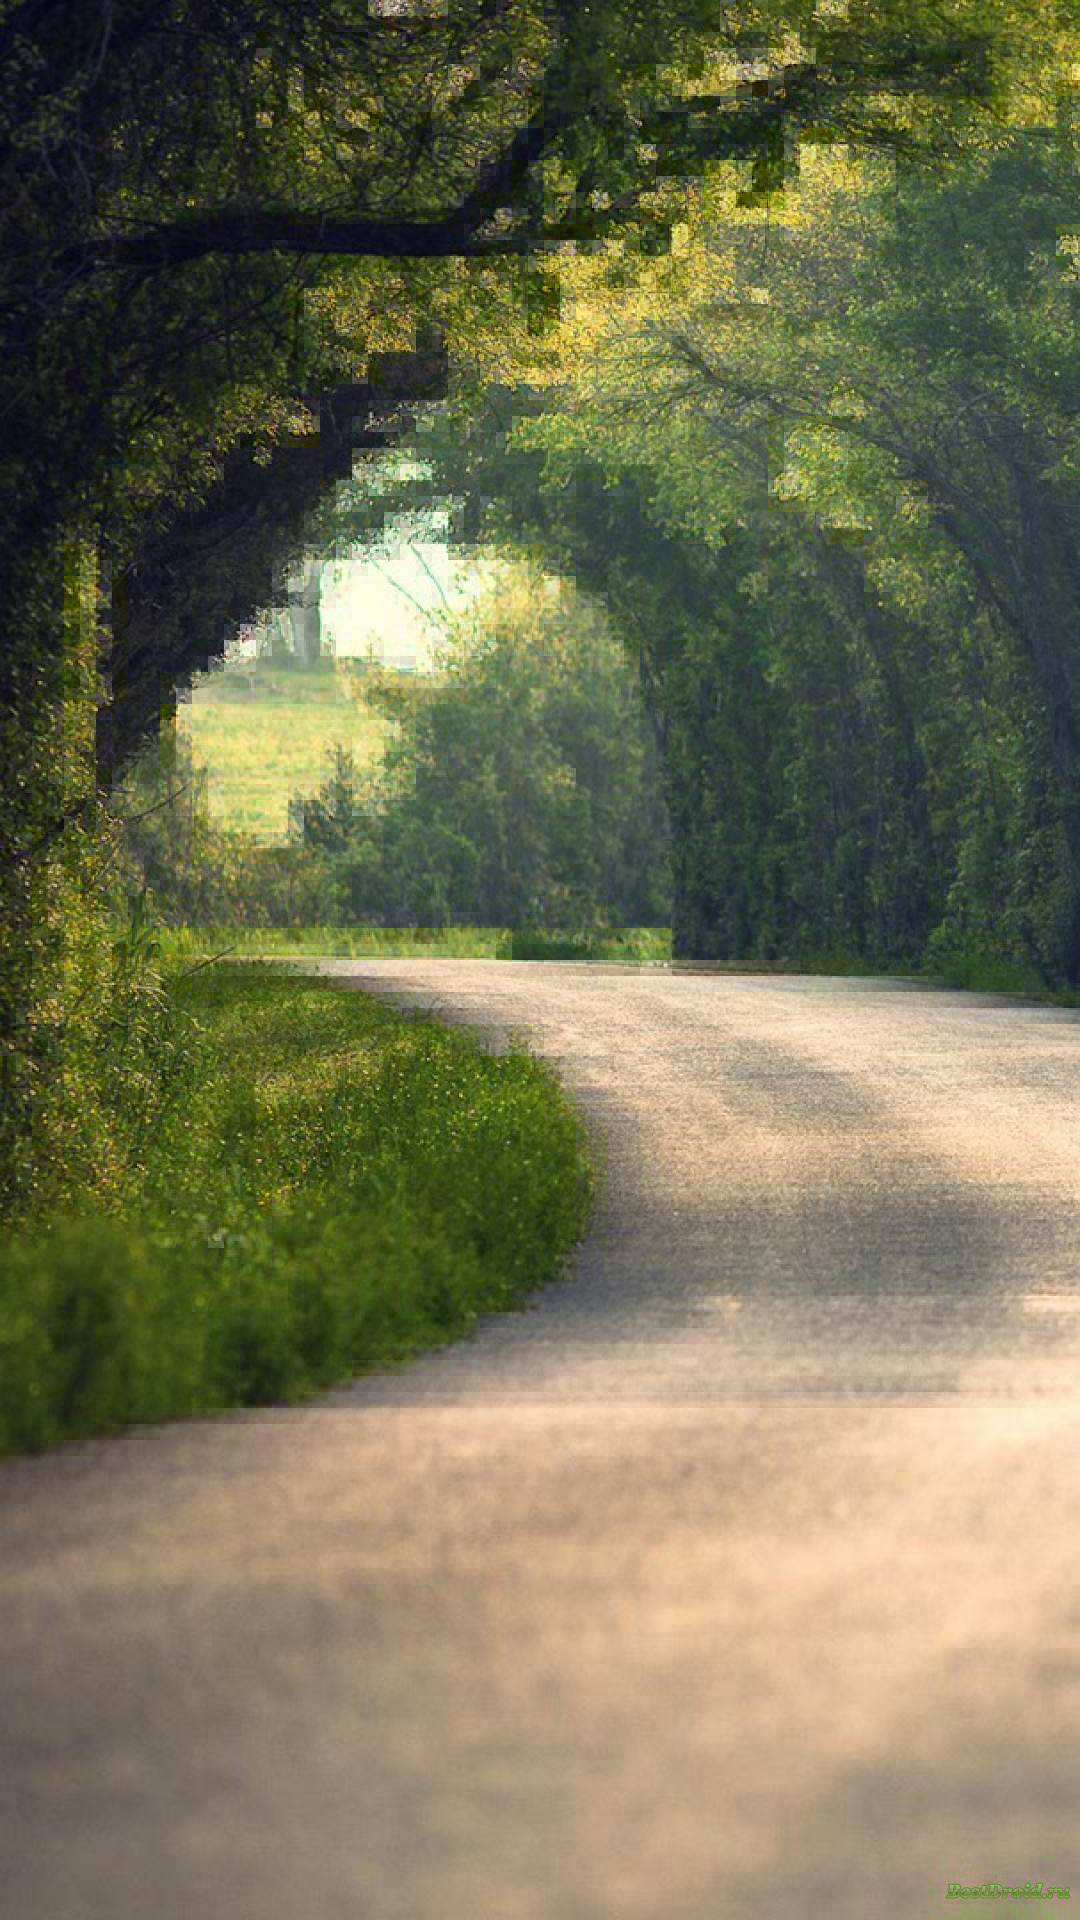
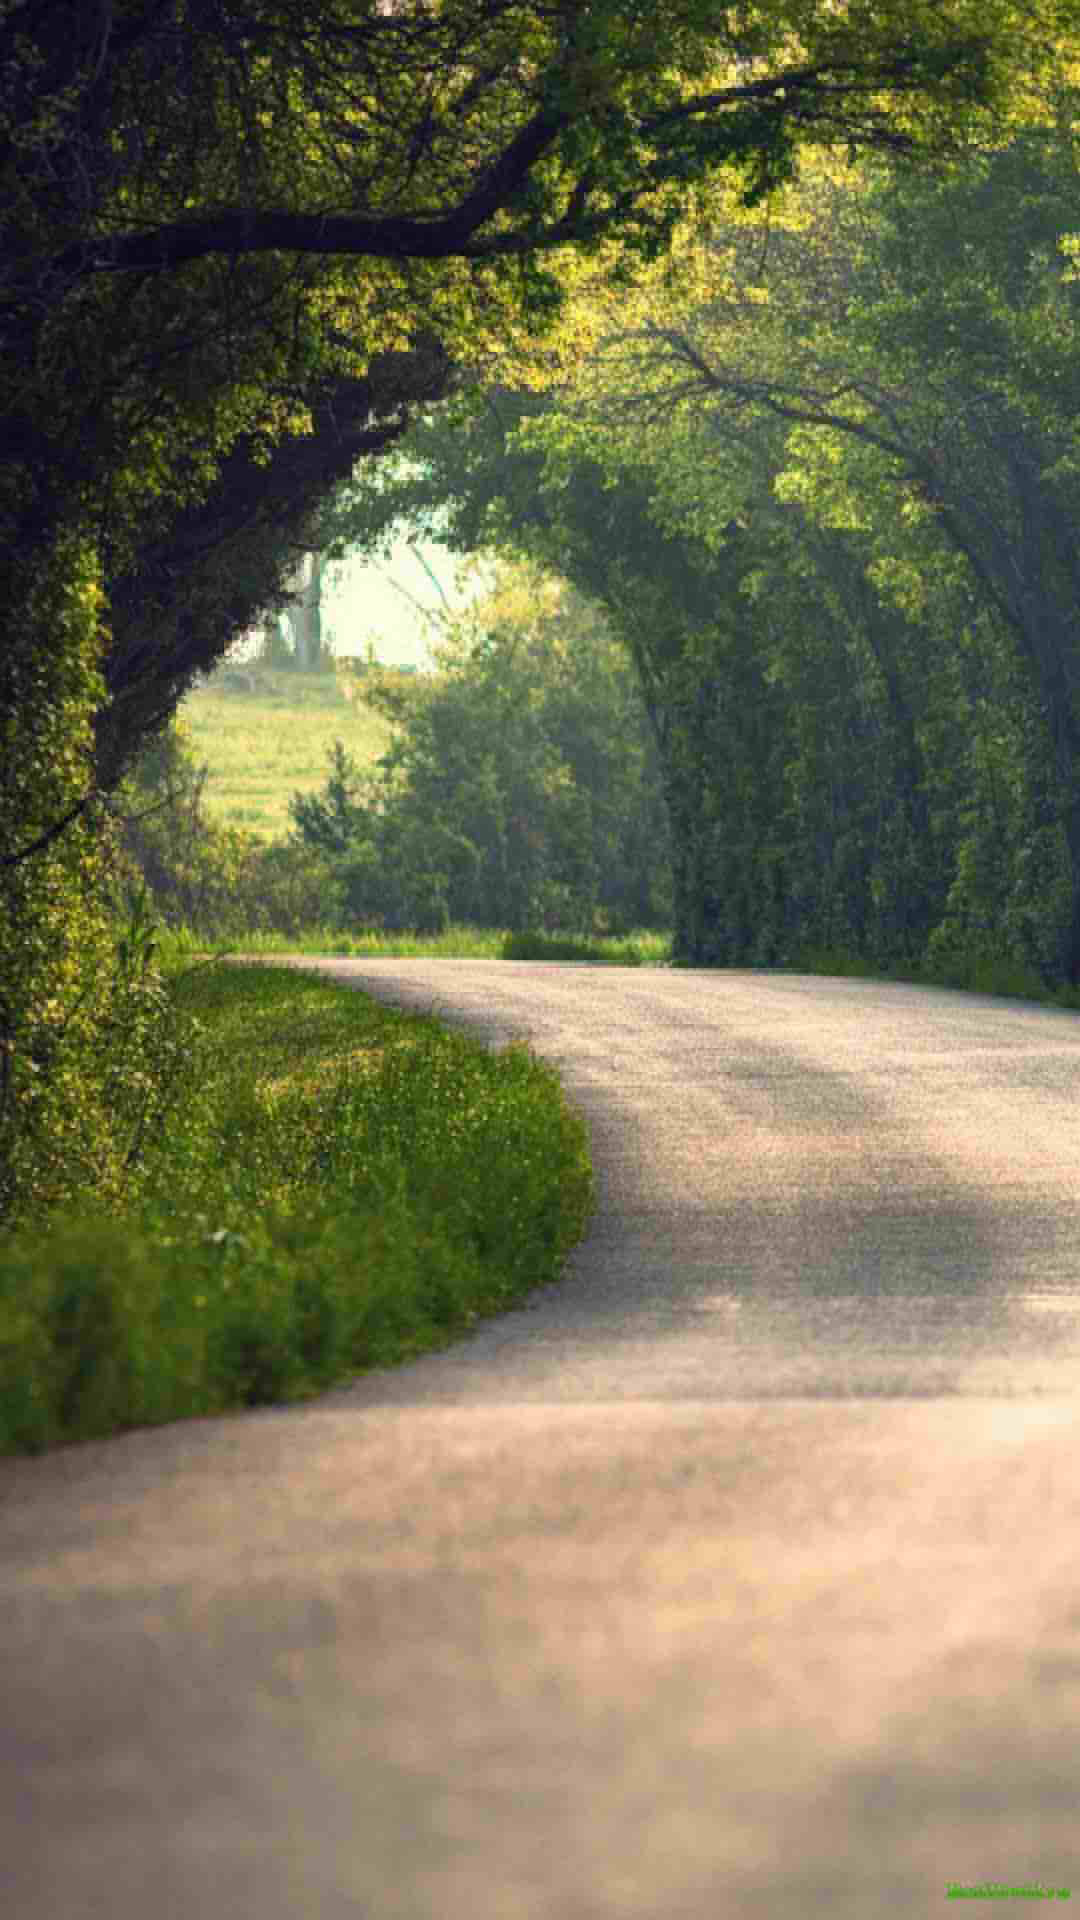
more compressed

diff --git a/src/RPFFImagePlugin.py b/src/RPFFImagePlugin.py
@@ -12,11 +12,12 @@ from typing import BinaryIO
 import numpy as np
 from scipy.fft import dctn, idctn
 from PIL import Image, ImageFile
+from dahuffman import HuffmanCodec
 
-TF_BLOCK_SIZE = 16
-QUANT_Y_MULT = 10
-QUANT_CHROMA_MULT = 20
-QUANT_Y_BITS = 4
+TF_BLOCK_SIZE = 8
+QUANT_Y_MULT = 30
+QUANT_CHROMA_MULT = 60
+QUANT_Y_BITS = 3
 QUANT_CHROMA_BITS = 2
 
 
@@ -75,27 +76,34 @@ def transform_blocks(channel: np.ndarray, inverse: bool = False) -> np.ndarray:
     return output.reshape(height, width)
 
 
-def pack_signed(channel: np.ndarray, bits_per_pixel: int) -> bytes:
+def pack_signed(ac: list[tuple[np.ndarray, int]], bits_per_pixel: int) -> bytes:
     offset = 1 << (bits_per_pixel - 1)
-    channel = channel.ravel().astype(np.int16)
-
-    # Ensure values fit within given range
-    if np.any((channel < -offset) | (channel >= offset)):
-        raise (
-            ValueError(
-                f"Data out of range for packed signed integer of {bits_per_pixel} bits."
-            )
-        )
-
-    # Map int to uint
-    codes = (channel + offset).astype(np.uint8)
-
-    # Convert to bits
     bit_shift = np.arange(bits_per_pixel)
-    bit_arr = ((codes[:, None] >> bit_shift) & 1).astype(np.uint8)
-    bit_arr = np.packbits(bit_arr.ravel(), bitorder="little")
+    packed_output = bytearray()
 
-    return bit_arr.tobytes()
+    for channel, trailing_zero in ac:
+        channel = channel.ravel().astype(np.int16)
+
+        # Ensure values fit within given range
+        if np.any((channel < -offset) | (channel >= offset)):
+            raise (
+                ValueError(
+                    f"Data out of range for packed signed integer of {bits_per_pixel} bits."
+                )
+            )
+
+        # Map int to uint
+        codes = (channel + offset).astype(np.uint8)
+
+        # Convert to bits
+        bit_arr = ((codes[:, None] >> bit_shift) & 1).astype(np.uint8)
+        bit_arr = np.packbits(bit_arr.ravel(), bitorder="little")
+
+        # Store into bytearray with zero count and truncated data
+        packed_output.extend(bytes([trailing_zero]))
+        packed_output.extend(bit_arr.tobytes())
+
+    return bytes(packed_output)
 
 
 def unpack_signed(raw: bytes, bits_per_pixel: int, pixels: int) -> np.ndarray:
@@ -133,16 +141,20 @@ class RPFFDecoder(ImageFile.PyDecoder):
         p_rows = rows + (-rows) % TF_BLOCK_SIZE
         p_columns = columns + (-columns) % TF_BLOCK_SIZE
         dc_count = (p_rows // TF_BLOCK_SIZE) * (p_columns // TF_BLOCK_SIZE)
-        ac_count = p_rows * p_columns - dc_count
 
         # Get DC Values
-        dc = self._read(dc_count * 2)  # DC values are 16 bits
-        dc = np.frombuffer(dc, dtype=np.int16)
+        dc = self._read(dc_count)  # DC values are 8 bits
+        dc = np.frombuffer(dc, dtype=np.int8)
 
         # Get AC Values
-        ac_byte_count = (ac_count * bits_per_pixel + 7) // 8
-        ac = self._read(ac_byte_count)
-        ac = unpack_signed(ac, bits_per_pixel, ac_count)
+        ac_per_block = TF_BLOCK_SIZE**2 - 1
+        ac = np.zeros((dc_count, ac_per_block), dtype=np.int8)
+        for block in range(dc_count):
+            trailing_zeros = self._read(1)[0]
+            remaining = ac_per_block - trailing_zeros
+            block_byte_count = (remaining * bits_per_pixel + 7) // 8
+            packed = self._read(block_byte_count)
+            ac[block, :remaining] = unpack_signed(packed, bits_per_pixel, remaining)
 
         # Repack Values together
         zz_blocks = np.empty(
@@ -266,6 +278,22 @@ def chroma_subsample(channel: np.ndarray) -> np.ndarray:
     return channel
 
 
+def truncate_zero_runs(ac: np.ndarray) -> list[tuple[np.ndarray, int]]:
+    trunc_ac = []
+
+    for block in ac.reshape(-1, ac.shape[-1]):
+        nonzero_ac = np.flatnonzero(block)
+
+        if nonzero_ac.size == 0:
+            trailing_zero = block.size
+        else:
+            trailing_zero = block.size - 1 - nonzero_ac[-1]
+
+        trunc_ac.append((block[: block.size - trailing_zero], trailing_zero))
+
+    return trunc_ac
+
+
 def embed_dc_in_channel(channel: np.ndarray, quant_mult: int, quant_bits: int) -> bytes:
     # Quantize
     quant = np.floor(channel / quant_mult + 0.5).astype(np.int16)
@@ -278,13 +306,15 @@ def embed_dc_in_channel(channel: np.ndarray, quant_mult: int, quant_bits: int) -
     blocks = blocks[..., ZZ_ROWS, ZZ_COLS]
 
     # Find DC values (top left coefficent)
-    dc = blocks[..., 0]
+    dc = blocks[..., 0].astype(np.int8)
 
     # Clip AC values
     limit = 1 << (quant_bits - 1)
     ac = np.clip(blocks[..., 1:], -limit, limit - 1).astype(np.int8)
+    ac[..., 7:] = 0 # Keep only the 8 largest AC values
+    trunc_ac = truncate_zero_runs(ac)
 
-    return dc.tobytes() + pack_signed(ac, quant_bits)
+    return dc.tobytes() + pack_signed(trunc_ac, quant_bits)
 
 
 def _save(image: Image.Image, fp: BinaryIO, _filename: str | bytes) -> None:
